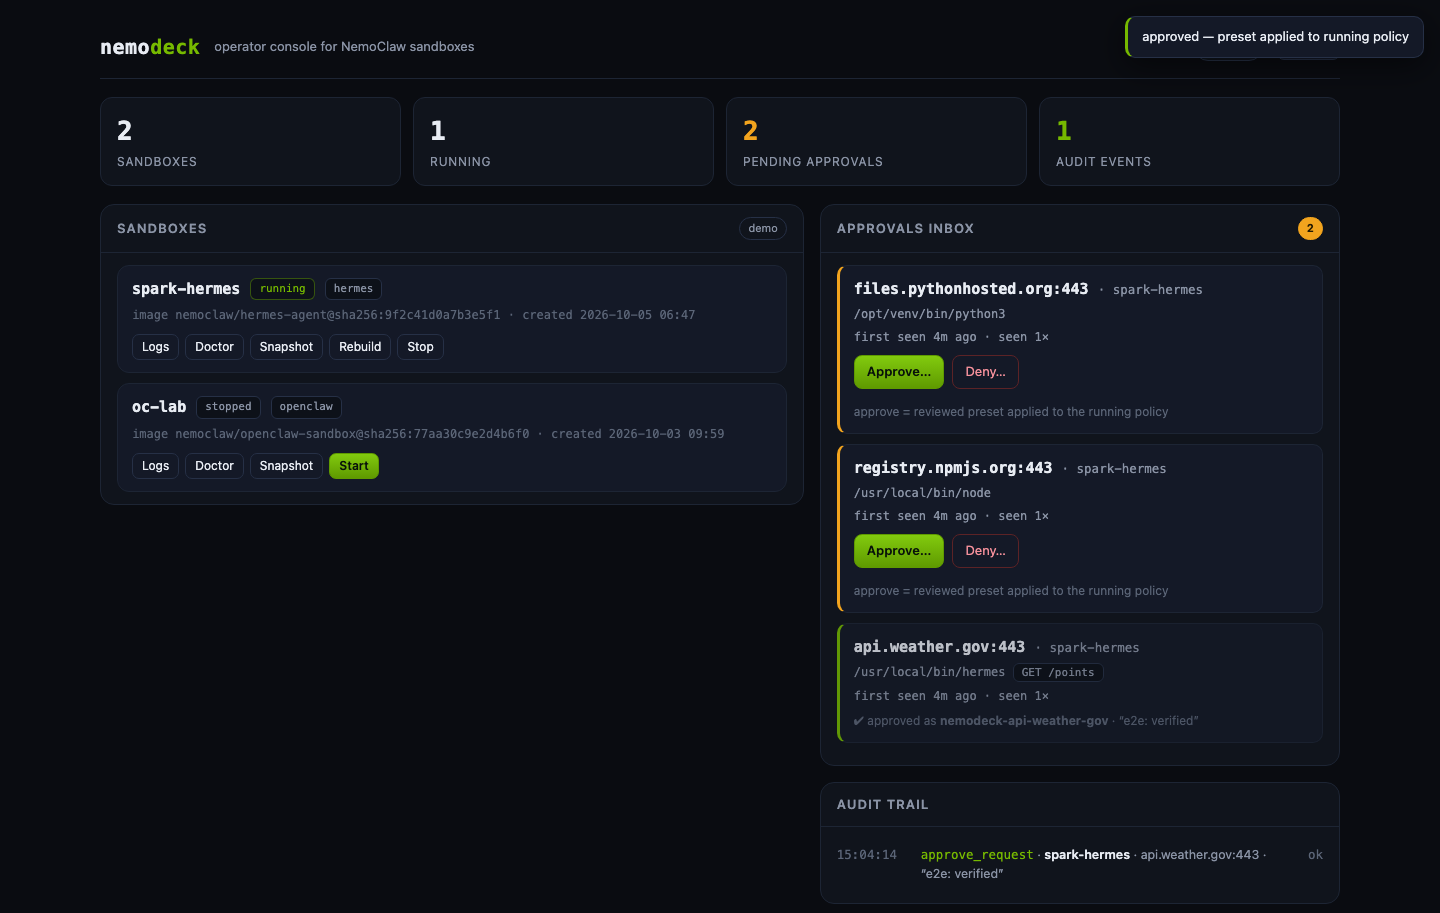
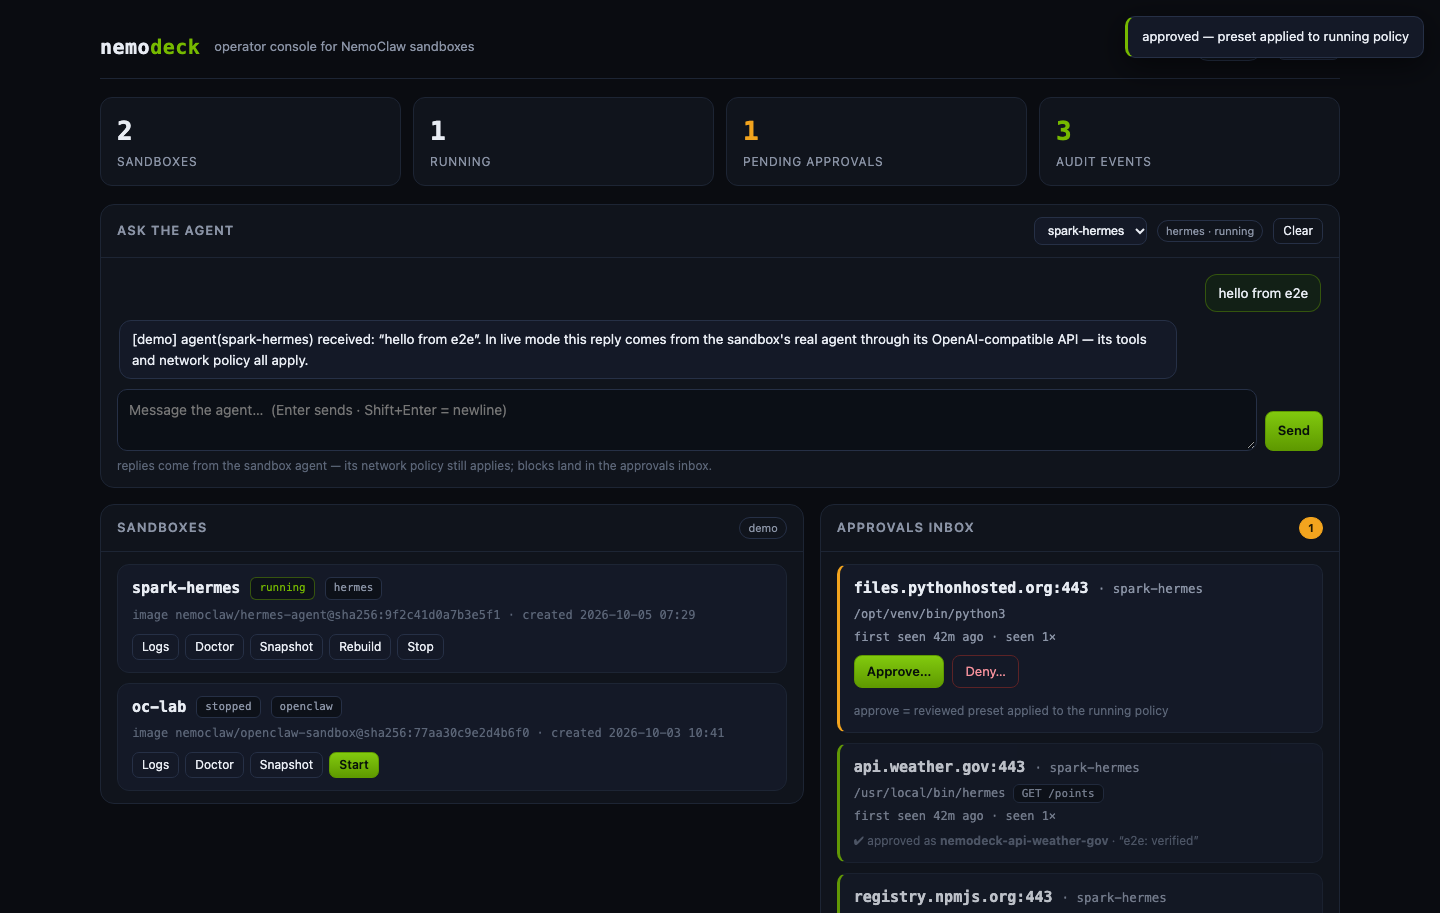
e2e_check: robust counts + agent chat checks; refresh screenshot

diff --git a/scripts/e2e_check.py b/scripts/e2e_check.py
@@ -119,8 +119,8 @@ def main() -> int:
 
             check("title", "nemodeck" in (cdp.eval("document.title") or ""), cdp.eval("document.title"))
             pending = cdp.wait_for("document.querySelectorAll('.req.pending').length || false")
-            check("pending cards render", pending == 3, f"got {pending}")
-            check("pending tile", cdp.eval("document.querySelector('#stPend').textContent") == "3")
+            check("pending cards render", pending >= 1, f"got {pending}")
+            check("pending tile", cdp.eval("document.querySelector('#stPend').textContent") == str(pending))
             ep = cdp.eval("document.querySelector('.req.pending .ep').textContent.trim()")
             check("endpoint shown", ":" in (ep or ""), ep)
 
@@ -131,13 +131,21 @@ def main() -> int:
             check("preset yaml prefilled", (yaml_head or "").startswith("preset:"), yaml_head)
             cdp.eval("document.querySelector('#apNote').value = 'e2e: verified'")
             cdp.eval("document.querySelector('#apGo').click()")
-            cdp.wait_for("document.querySelectorAll('.req.approved').length === 1", timeout=15)
+            cdp.wait_for("document.querySelectorAll('.req.approved').length >= 1", timeout=15)
             check("card moved to approved", True)
-            cdp.wait_for("document.querySelectorAll('.req.pending').length === 2", timeout=15)
-            check("pending count decremented", cdp.eval("document.querySelector('#stPend').textContent") == "2")
+            cdp.wait_for(f"document.querySelectorAll('.req.pending').length === {pending - 1}", timeout=15)
+            check("pending count decremented", cdp.eval("document.querySelector('#stPend').textContent") == str(pending - 1))
 
             audit_txt = cdp.eval("document.querySelector('#audList').textContent")
             check("audit shows decision", "approve_request" in (audit_txt or ""), )
+
+            # agent chat (demo adapter replies)
+            cdp.eval("document.querySelector('#chatIn').value = 'hello from e2e'")
+            cdp.eval("document.querySelector('#chatSend').click()")
+            cdp.wait_for("document.querySelectorAll('#chatLog .msg.agent').length >= 1", timeout=20)
+            chat_txt = cdp.eval("document.querySelector('#chatLog .msg.agent').textContent") or ""
+            check("agent chat replies", "received" in chat_txt, chat_txt[:80])
+            check("chat user bubble", cdp.eval("document.querySelectorAll('#chatLog .msg.user').length") >= 1)
 
             shot = cdp.cmd("Page.captureScreenshot", format="png")
             out = ROOT / "artifacts" / "ui.png"
